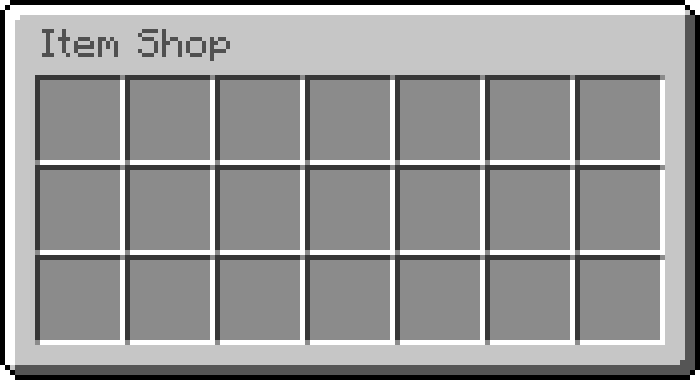
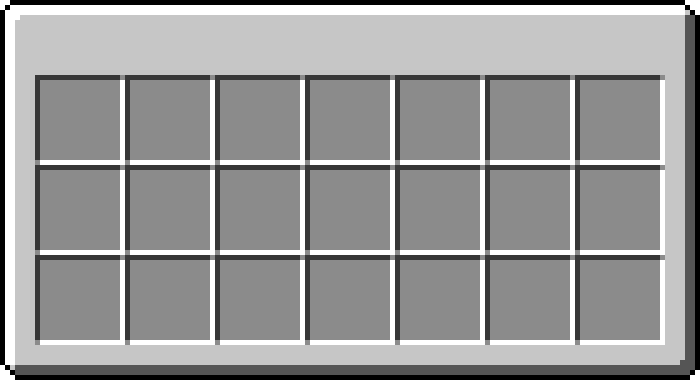
Added namesto shop reenders

Changed region(s): [[0.06, 0.0579, 0.33, 0.1737]]

diff --git a/bot/render/rendershop.py b/bot/render/rendershop.py
@@ -1,5 +1,5 @@
 from io import BytesIO
-from PIL import Image
+from PIL import Image, ImageDraw, ImageFont
 from helper.custombackground import background
 
 def rendershop(uuid, hypixel_data):
@@ -19,6 +19,12 @@ def rendershop(uuid, hypixel_data):
         top_image = Image.open(f"./assets/shop/{item}.png")
         top_image = top_image.convert("RGBA")
         base_image.paste(top_image, slots[i], top_image)
+
+    draw = ImageDraw.Draw(base_image)
+    font = ImageFont.truetype('./assets/minecraft.ttf', 32)
+
+    name = hypixel_data['player']['displayname']
+    draw.text((42, 29), f"{name}'s Quick Buy", fill=(80, 80, 80), font=font)
 
     # Return the result
     image_bytes = BytesIO()
